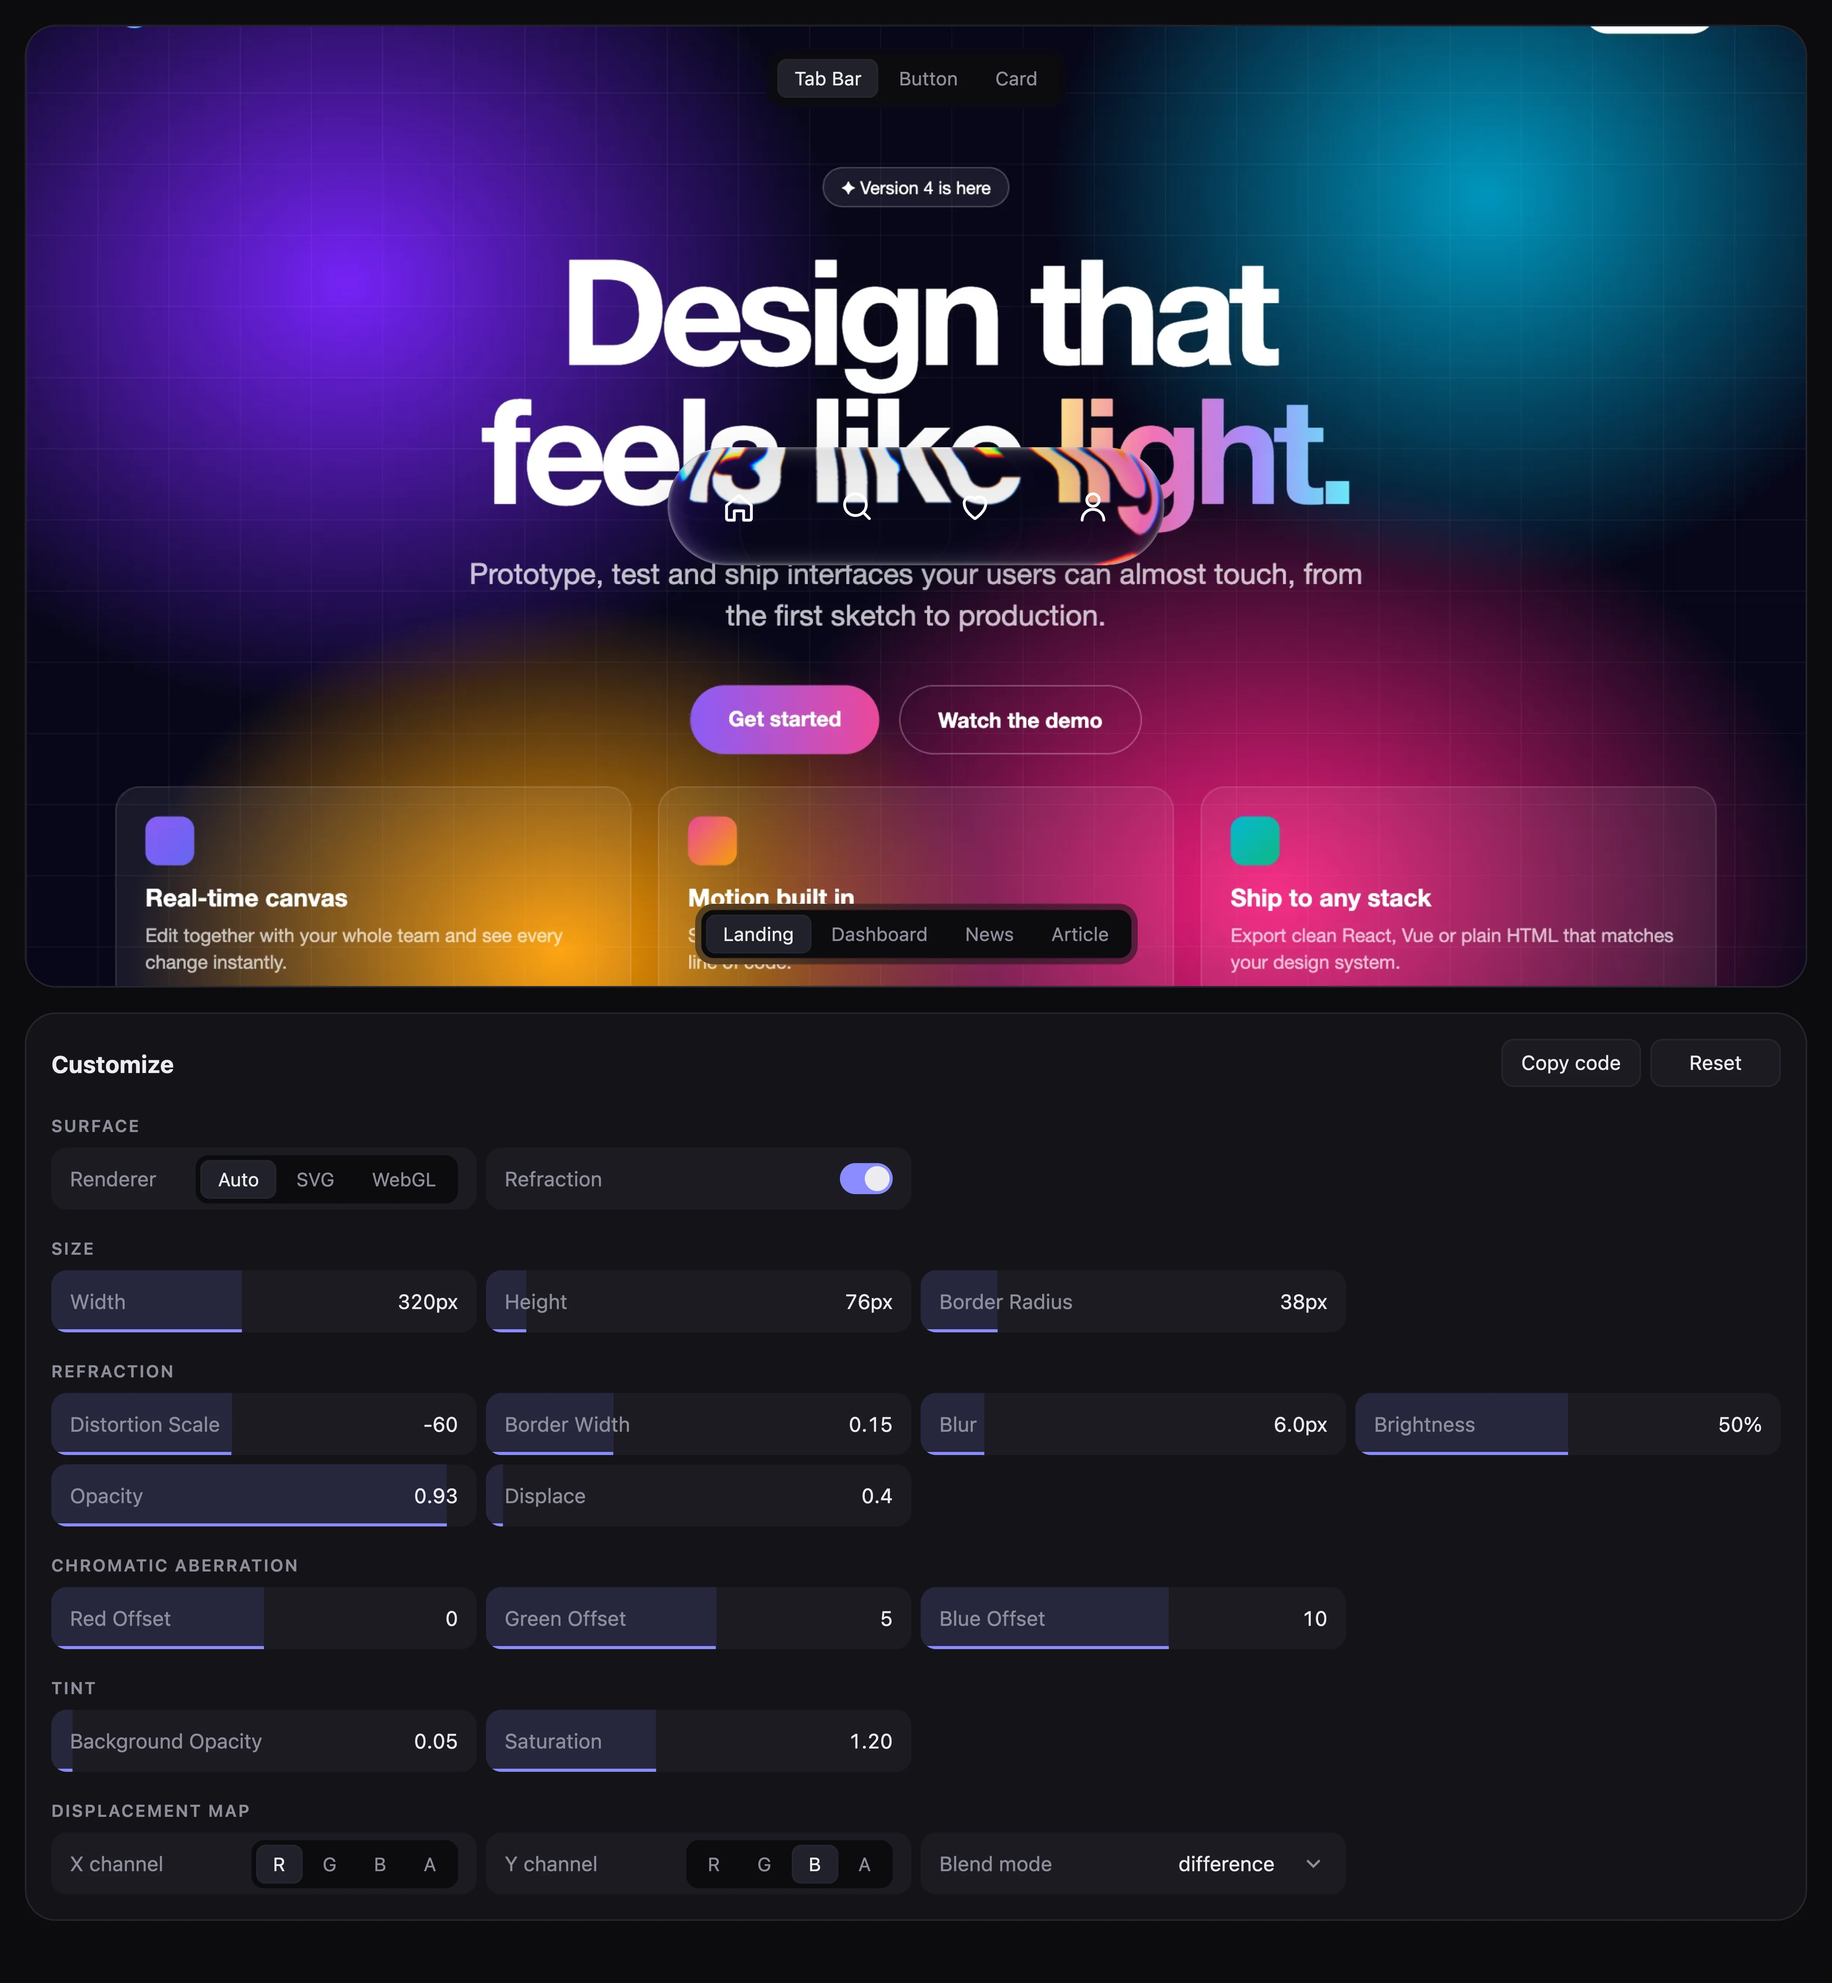
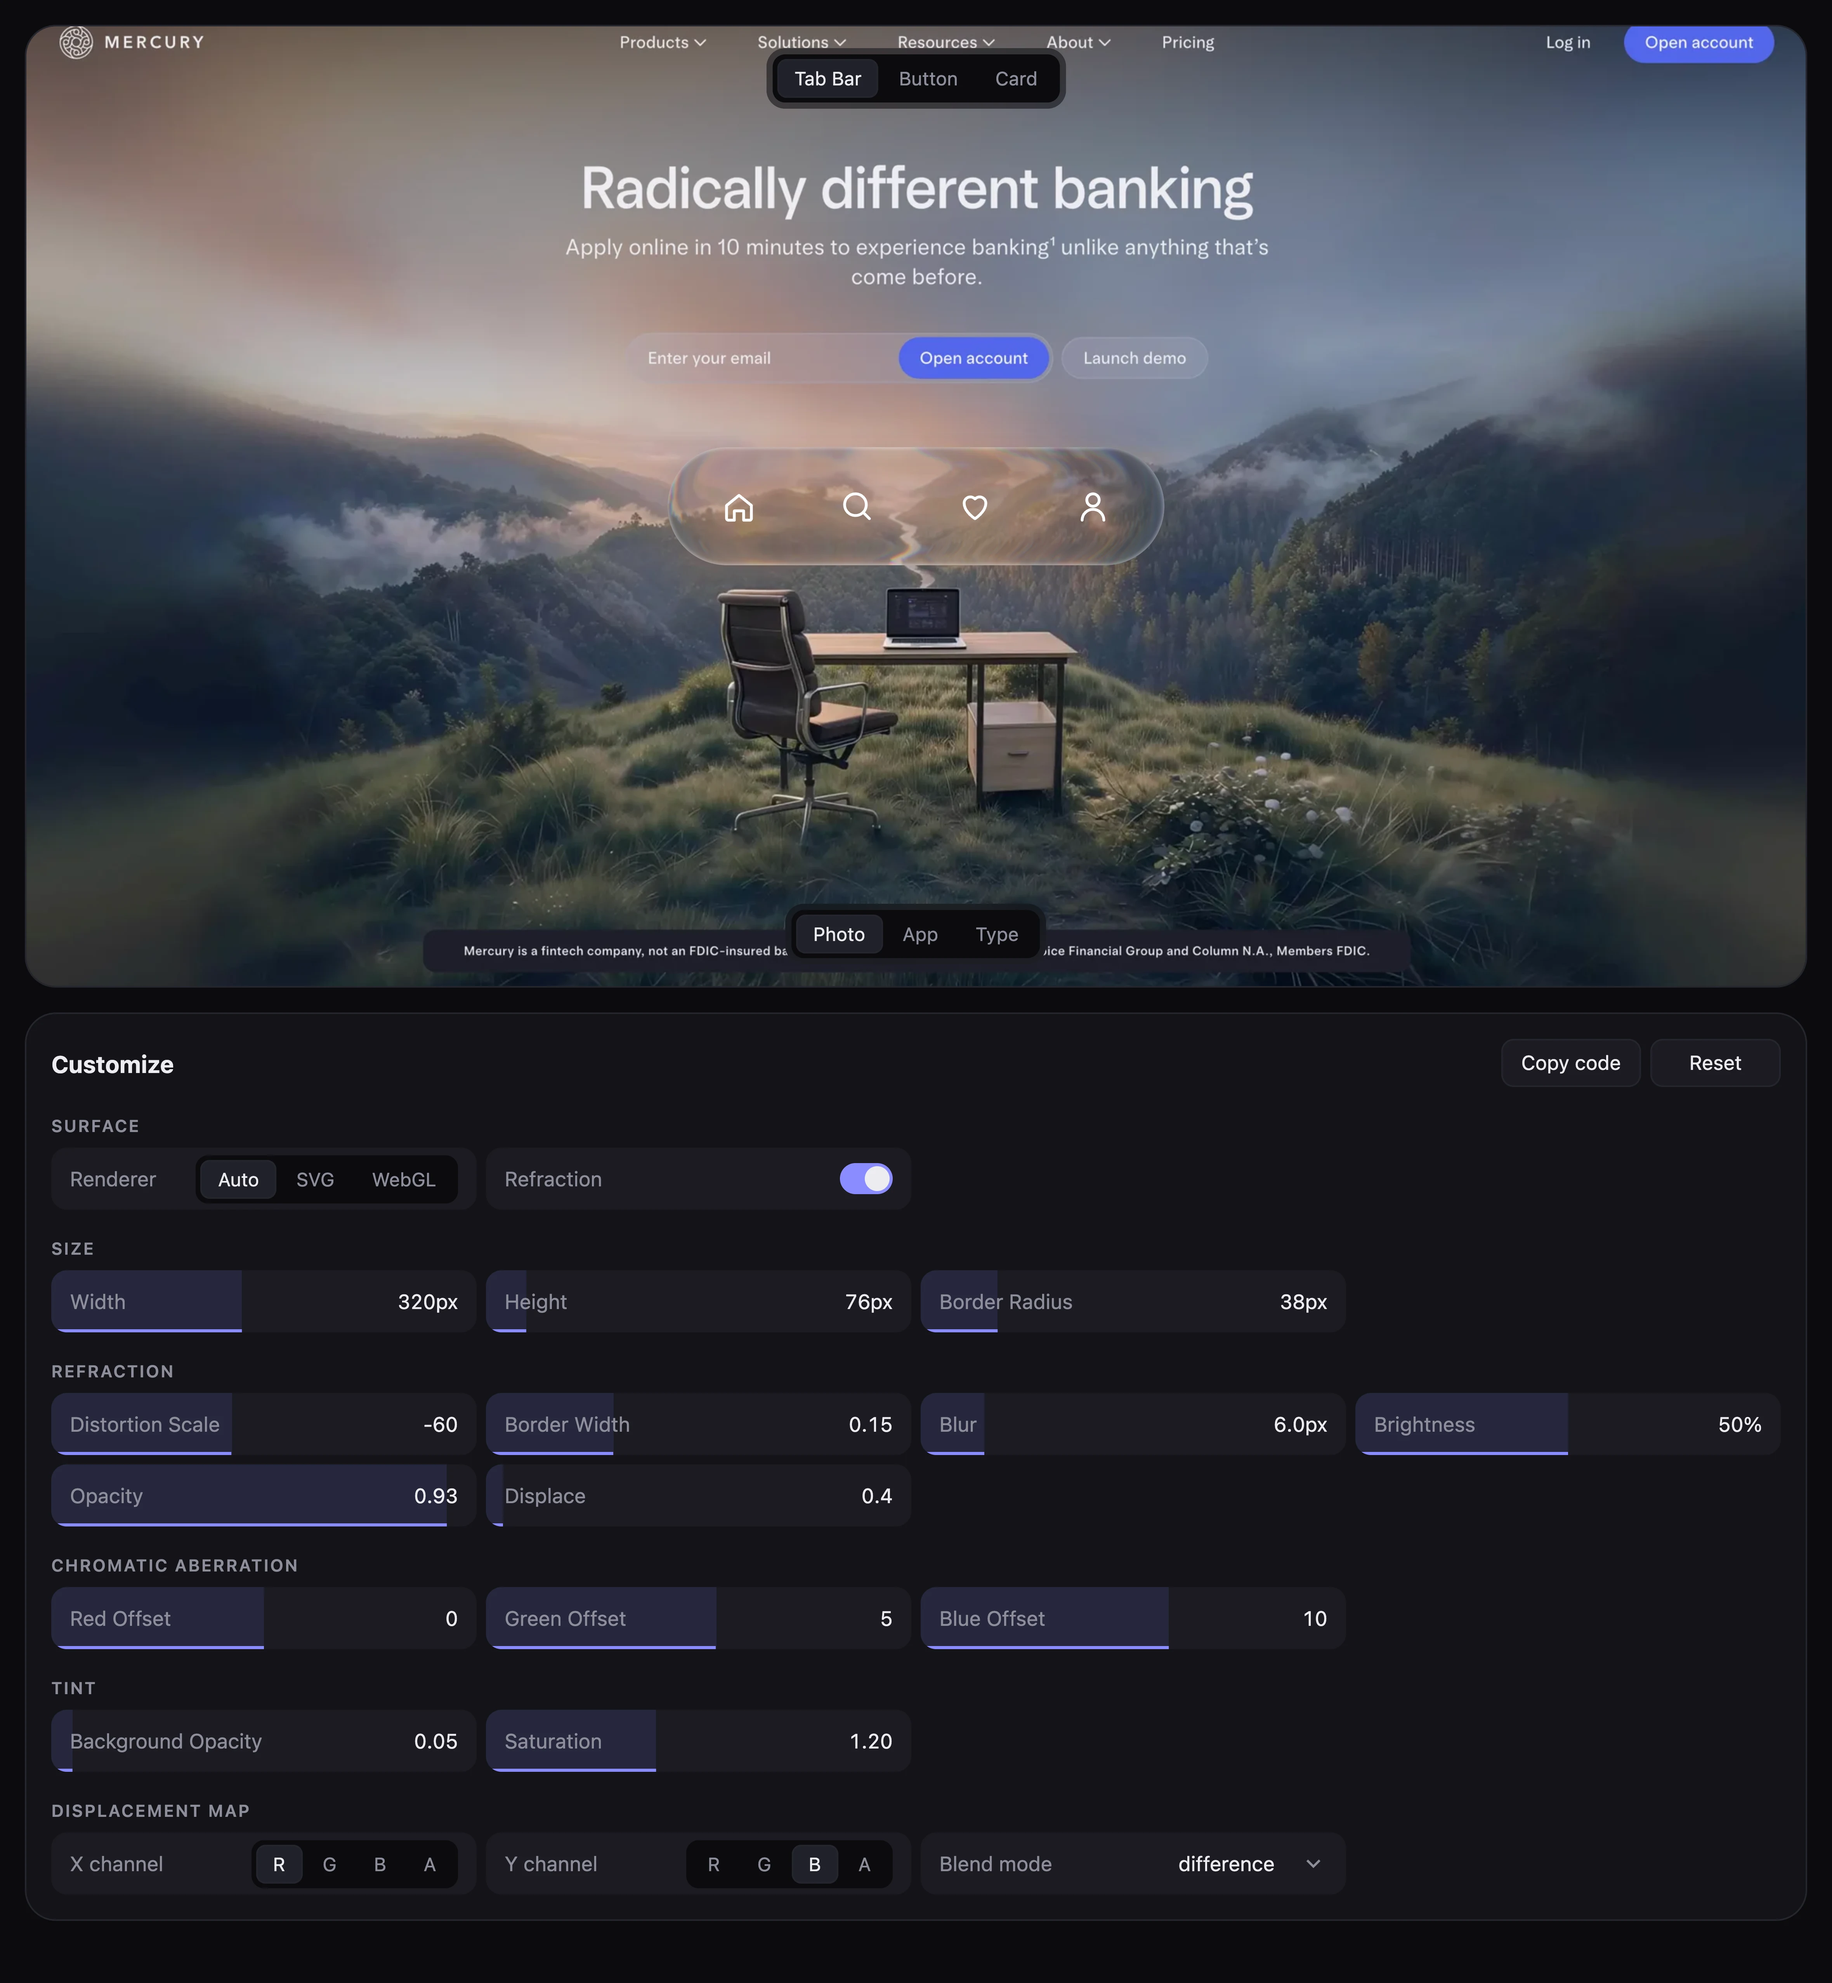
feat(playground): use three website screenshots as backdrops
Photo, App, and Type replace the four mocked pages, and the readme screenshot is retaken.

diff --git a/playground/src/settings.ts b/playground/src/settings.ts
@@ -8,7 +8,7 @@ import type {
 
 export type PresetName = "tabBar" | "button" | "card";
 
-export type BackdropName = "landing" | "dashboard" | "news" | "article";
+export type BackdropName = "photo" | "app" | "type";
 
 export type NumericSetting =
   | "width"
@@ -201,10 +201,9 @@ export const PRESET_OPTIONS: Option<PresetName>[] = [
 ];
 
 export const BACKDROP_OPTIONS: Option<BackdropName>[] = [
-  { label: "Landing", value: "landing" },
-  { label: "Dashboard", value: "dashboard" },
-  { label: "News", value: "news" },
-  { label: "Article", value: "article" },
+  { label: "Photo", value: "photo" },
+  { label: "App", value: "app" },
+  { label: "Type", value: "type" },
 ];
 
 export const RENDERER_OPTIONS: Option<GlassRenderer>[] = [

diff --git a/playground/src/app.tsx b/playground/src/app.tsx
@@ -31,8 +31,8 @@ import {
 import { createSnippet } from "./snippet";
 import { useDrag } from "./use-drag";
 
-const BACKDROP_WIDTH = 2400;
-const BACKDROP_HEIGHT = 1500;
+const BACKDROP_WIDTH = 2000;
+const BACKDROP_HEIGHT = 1120;
 
 const COPIED_NOTICE_DURATION = 1500;
 
@@ -55,7 +55,7 @@ export function App(): ReactNode {
   const backdropRef = useRef<HTMLImageElement>(null);
 
   const [settings, setSettings] = useState<Settings>(PRESET_SETTINGS.tabBar);
-  const [backdrop, setBackdrop] = useState<BackdropName>("landing");
+  const [backdrop, setBackdrop] = useState<BackdropName>("photo");
   const [copied, setCopied] = useState(false);
 
   const drag = useDrag(stageRef);
